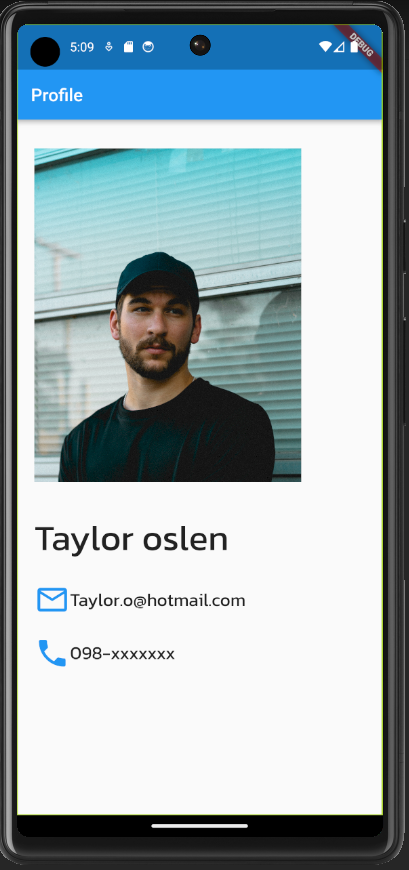
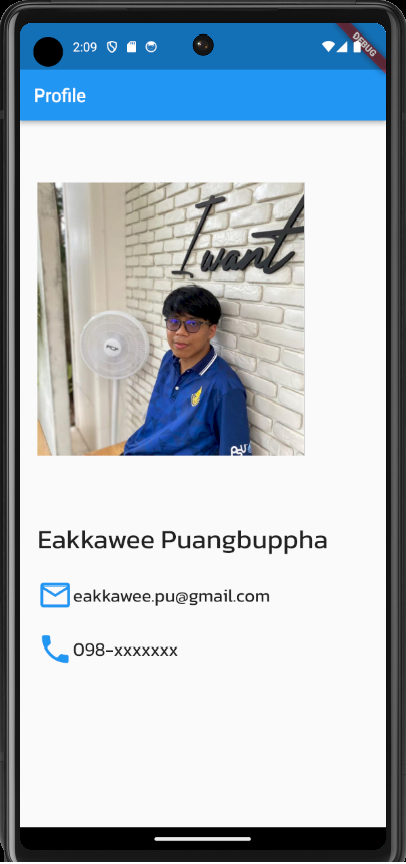
Edit Picture

diff --git a/lib/profileUI.dart b/lib/profileUI.dart
@@ -15,7 +15,7 @@ class UiProfile extends StatelessWidget {
         const Padding(
           padding: EdgeInsets.all(20),
           child: Image(
-            image: AssetImage('assets/images/taylor.jpg'),
+            image: NetworkImage('https://scontent.fbkk10-1.fna.fbcdn.net/v/t39.30808-6/312383987_1621515094918246_3059053357038120220_n.jpg?_nc_cat=102&cb=99be929b-3346023f&ccb=1-7&_nc_sid=09cbfe&_nc_eui2=AeHlyXZ1iHOd4jg1pFEq__dEV1owidFqU1JXWjCJ0WpTUk9vXucCNHXsSSlHWlHSKZwc7iyXR1nEbTxxHG33BZEc&_nc_ohc=LL59YpQSLQAAX87l3Nr&_nc_ht=scontent.fbkk10-1.fna&oh=00_AfCttwEGJUCRBl0dO7P3-GncIn4OWxQqJKkNmTdkkIktIw&oe=64C90DC3'),
             width: 300,
             height: 400,
           ),
@@ -23,9 +23,9 @@ class UiProfile extends StatelessWidget {
         Padding(
           padding: const EdgeInsets.only(bottom: 20, left: 20),
           child: Text(
-            "Taylor oslen",
+            "Eakkawee Puangbuppha",
             style: GoogleFonts.kanit(
-              textStyle: TextStyle(fontSize: 40)
+              textStyle: TextStyle(fontSize: 30)
             ),
           ),
         ),
@@ -39,7 +39,7 @@ class UiProfile extends StatelessWidget {
                 size: 40,
               ),
               Text(
-            "Taylor.o@hotmail.com",
+            "eakkawee.pu@gmail.com",
             style: GoogleFonts.kanit(
               textStyle: TextStyle(fontSize: 20)
             ),
